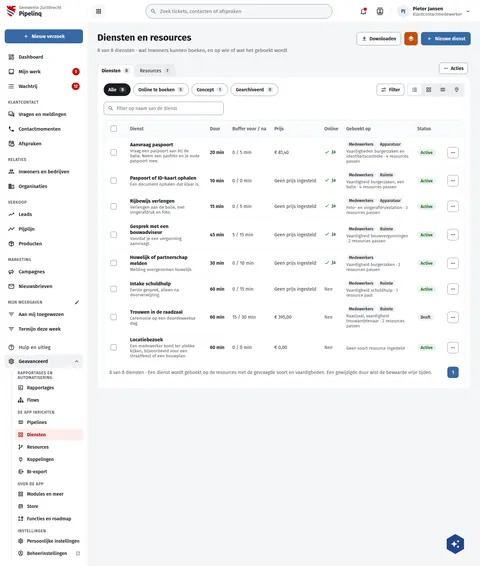
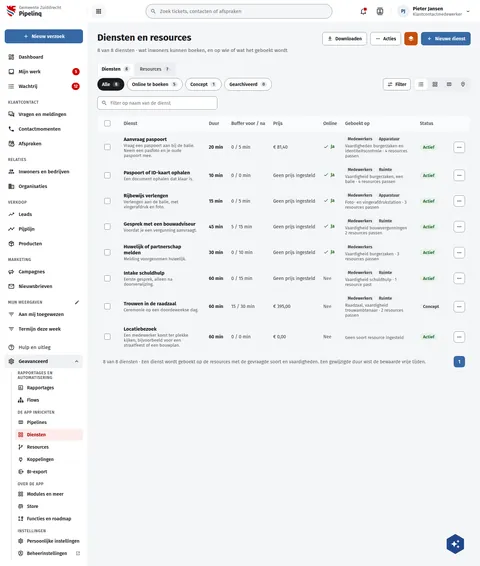
fix(screens): PqServices draws the list at full width with Acties in the header
The services list stood in a framed tab panel 1080 wide with Acties beside
the tabs. Every other list, live and DqZaken draw the table at the full
1118 under unframed tabs and put Acties in the page header next to
Downloaden, as PqFlows already draws its tab panel. The status pills read
Actief, Concept and Gearchiveerd instead of the raw values.

Assisted-by: ClaudeCode:claude-opus-5-5

diff --git a/preview/screens/boards/PqServices.html b/preview/screens/boards/PqServices.html
@@ -233,6 +233,7 @@ a{color:var(--sc-primary, #3669a5)}a:hover{color:var(--sc-primary-deep, #234a78)
           <h1 style="flex: 1 1 320px; min-width: 0; margin: 0; font-size: 28px; font-weight: 700; line-height: 1.2">Diensten en resources</h1>
           <div style="flex: none; display: flex; flex-wrap: wrap; gap: 10px">
             <button type="button" style="display: flex; align-items: center; gap: 8px; height: 40px; padding: 0 14px; border: 1px solid var(--sc-work-field, #828a95); border-radius: 8px; background: #ffffff; font: 600 14px var(--sc-font, 'Fira Sans'), sans-serif; color: var(--sc-work-ink, #1b1c1d)"><svg width="16" height="16" viewbox="0 0 24 24" fill="currentColor"><path d="M13,5V11H14.17L12,13.17L9.83,11H11V5H13M15,3H9V9H5L12,16L19,9H15V3M19,18H5V20H19V18Z"></path></svg>Downloaden</button>
+            <button type="button" aria-haspopup="menu" style="display: flex; align-items: center; gap: 8px; height: 40px; padding: 0 14px; border: 1px solid var(--sc-work-field, #828a95); border-radius: 8px; background: #ffffff; font: 600 14px var(--sc-font, 'Fira Sans'), sans-serif; color: var(--sc-work-ink, #1b1c1d)"><svg width="16" height="16" viewbox="0 0 24 24" fill="currentColor" aria-hidden="true"><path d="M16,12A2,2 0 0,1 18,10A2,2 0 0,1 20,12A2,2 0 0,1 18,14A2,2 0 0,1 16,12M10,12A2,2 0 0,1 12,10A2,2 0 0,1 14,12A2,2 0 0,1 12,14A2,2 0 0,1 10,12M4,12A2,2 0 0,1 6,10A2,2 0 0,1 8,12A2,2 0 0,1 6,14A2,2 0 0,1 4,12Z"></path></svg>Acties</button>
             <button type="button" aria-label="buildiq" title="buildiq" style="display: flex; align-items: center; justify-content: center; width: 40px; height: 40px; border: 0; border-radius: 8px; background: var(--sc-buildiq, #c64e0b); color: #ffffff"><svg width="20" height="20" viewbox="0 0 24 24" fill="currentColor"><path d="M12,16L19.36,10.27L21,9L12,2L3,9L4.63,10.27M12,18.54L4.62,12.81L3,14.07L12,21.07L21,14.07L19.37,12.8L12,18.54Z"></path></svg></button>
             <button type="button" style="display: flex; align-items: center; gap: 8px; height: 40px; padding: 0 16px; border: 0; border-radius: 8px; background: var(--sc-primary, #3669a5); color: #ffffff; font: 600 14px var(--sc-font, 'Fira Sans'), sans-serif"><svg width="18" height="18" viewbox="0 0 24 24" fill="currentColor"><path d="M19,13H13V19H11V13H5V11H11V5H13V11H19V13Z"></path></svg>Nieuwe dienst</button>
           </div>
@@ -251,9 +252,8 @@ a{color:var(--sc-primary, #3669a5)}a:hover{color:var(--sc-primary-deep, #234a78)
                   <button type="button" role="tab" aria-selected="false" style="display: inline-flex; align-items: center; gap: 8px; box-sizing: border-box; min-height: 34px; padding: 8px 12px; margin-bottom: -1px; border: 1px solid #d6d9de; border-bottom: none; border-radius: 8px 8px 0 0; font: 400 14px var(--sc-font, 'Fira Sans'), sans-serif; color: var(--sc-work-ink, #1b1c1d); background: #eceef1; cursor: pointer; white-space: nowrap;">Resources<span style="min-width: 20px; height: 20px; padding: 0 6px; box-sizing: border-box; border-radius: 10px; background: var(--sc-work-line, #e4e6ea); color: var(--sc-work-text, #3d4047); font-size: 12px; font-weight: 600; display: inline-flex; align-items: center; justify-content: center">7</span></button>
                 
               </div>
-              <button type="button" aria-haspopup="menu" style="flex: none; align-self: flex-start; margin: 0 8px 8px 0; display: inline-flex; align-items: center; gap: 6px; min-height: 34px; padding: 0 12px; border: 1px solid var(--sc-work-field, #828a95); border-radius: 8px; background: #ffffff; font: 600 14px var(--sc-font, 'Fira Sans'), sans-serif; color: var(--sc-work-ink, #1b1c1d)"><svg width="16" height="16" viewbox="0 0 24 24" fill="currentColor"><path d="M16,12A2,2 0 0,1 18,10A2,2 0 0,1 20,12A2,2 0 0,1 18,14A2,2 0 0,1 16,12M10,12A2,2 0 0,1 12,10A2,2 0 0,1 14,12A2,2 0 0,1 12,14A2,2 0 0,1 10,12M4,12A2,2 0 0,1 6,10A2,2 0 0,1 8,12A2,2 0 0,1 6,14A2,2 0 0,1 4,12Z"></path></svg>Acties</button>
             </div>
-            <div role="tabpanel" aria-label="Diensten" style="background: #ffffff; border: 1px solid var(--sc-work-line, #e4e6ea); border-radius: 0 12px 12px 12px; padding: 18px; display: flex; flex-direction: column; gap: 16px">
+            <div role="tabpanel" aria-label="Diensten" style="padding-top: 8px; display: flex; flex-direction: column; gap: 16px">
         <div style="display: flex; flex-wrap: wrap; gap: 8px; align-items: center">
           
             <button type="button" aria-pressed="true" style="display: flex; align-items: center; gap: 8px; height: 38px; padding: 0 14px; border-radius: 19px; font: 600 14px var(--sc-font, 'Fira Sans'), sans-serif; border: 0; background: var(--sc-work-ink, #1b1c1d); color: #ffffff;">Alle<span style="padding: 1px 7px; border-radius: 10px; font-size: 12px; background: var(--sc-work-text, #3d4047); color: #ffffff;">8</span></button>
@@ -310,7 +310,7 @@ a{color:var(--sc-primary, #3669a5)}a:hover{color:var(--sc-primary-deep, #234a78)
                     <td style="padding: 12px; white-space: nowrap; color: var(--sc-work-text, #3d4047)">€ 81,40</td>
                     <td style="padding: 12px"><span style="display: inline-flex; align-items: center; gap: 6px; color: #1e6b2a; font-weight: 600"><svg width="16" height="16" viewbox="0 0 24 24" fill="currentColor"><path d="M21,7L9,19L3.5,13.5L4.91,12.09L9,16.17L19.59,5.59L21,7Z"></path></svg>Ja</span></td>
                     <td style="padding: 12px"><span style="display: flex; flex-direction: column; gap: 4px"><span style="display: flex; flex-wrap: wrap; gap: 4px"><span style="display: inline-block; padding: 2px 8px; border-radius: 10px; font-size: 12px; font-weight: 600; background: var(--sc-work-chip, #f0f1f3); color: var(--sc-work-text, #3d4047)">Medewerkers</span><span style="display: inline-block; padding: 2px 8px; border-radius: 10px; font-size: 12px; font-weight: 600; background: var(--sc-work-chip, #f0f1f3); color: var(--sc-work-text, #3d4047)">Apparatuur</span></span><span style="font-size: 13px; color: var(--sc-work-muted, #5e6168)">Vaardigheden burgerzaken en identiteitscontrole · 4 resources passen</span></span></td>
-                    <td style="padding: 12px 18px 12px 12px"><span style="display: inline-block; padding: 3px 10px; border-radius: 12px; font-size: 13px; font-weight: 600; white-space: nowrap; background: #e7f3ea; color: #1e6b2a">Active</span></td>
+                    <td style="padding: 12px 18px 12px 12px"><span style="display: inline-block; padding: 3px 10px; border-radius: 12px; font-size: 13px; font-weight: 600; white-space: nowrap; background: #e7f3ea; color: #1e6b2a">Actief</span></td>
                   <td style="padding: 14px 16px; text-align: right"><button type="button" aria-label="Actions for Aanvraag paspoort" style="width: 34px; height: 34px; display: inline-flex; align-items: center; justify-content: center; border: 1px solid var(--sc-work-field, #828a95); border-radius: 8px; background: #ffffff; color: var(--sc-work-text, #3d4047)"><svg width="18" height="18" viewbox="0 0 24 24" fill="currentColor" aria-hidden="true"><path d="M16,12A2,2 0 0,1 18,10A2,2 0 0,1 20,12A2,2 0 0,1 18,14A2,2 0 0,1 16,12M10,12A2,2 0 0,1 12,10A2,2 0 0,1 14,12A2,2 0 0,1 12,14A2,2 0 0,1 10,12M4,12A2,2 0 0,1 6,10A2,2 0 0,1 8,12A2,2 0 0,1 6,14A2,2 0 0,1 4,12Z"></path></svg></button></td></tr>
                 
                   <tr style="border-top: 1px solid var(--sc-work-soft, #eef0f3)">
@@ -320,7 +320,7 @@ a{color:var(--sc-primary, #3669a5)}a:hover{color:var(--sc-primary-deep, #234a78)
                     <td style="padding: 12px; white-space: nowrap; color: var(--sc-work-text, #3d4047)">Geen prijs ingesteld</td>
                     <td style="padding: 12px"><span style="display: inline-flex; align-items: center; gap: 6px; color: #1e6b2a; font-weight: 600"><svg width="16" height="16" viewbox="0 0 24 24" fill="currentColor"><path d="M21,7L9,19L3.5,13.5L4.91,12.09L9,16.17L19.59,5.59L21,7Z"></path></svg>Ja</span></td>
                     <td style="padding: 12px"><span style="display: flex; flex-direction: column; gap: 4px"><span style="display: flex; flex-wrap: wrap; gap: 4px"><span style="display: inline-block; padding: 2px 8px; border-radius: 10px; font-size: 12px; font-weight: 600; background: var(--sc-work-chip, #f0f1f3); color: var(--sc-work-text, #3d4047)">Medewerkers</span><span style="display: inline-block; padding: 2px 8px; border-radius: 10px; font-size: 12px; font-weight: 600; background: var(--sc-work-chip, #f0f1f3); color: var(--sc-work-text, #3d4047)">Ruimte</span></span><span style="font-size: 13px; color: var(--sc-work-muted, #5e6168)">Vaardigheid burgerzaken, een balie · 4 resources passen</span></span></td>
-                    <td style="padding: 12px 18px 12px 12px"><span style="display: inline-block; padding: 3px 10px; border-radius: 12px; font-size: 13px; font-weight: 600; white-space: nowrap; background: #e7f3ea; color: #1e6b2a">Active</span></td>
+                    <td style="padding: 12px 18px 12px 12px"><span style="display: inline-block; padding: 3px 10px; border-radius: 12px; font-size: 13px; font-weight: 600; white-space: nowrap; background: #e7f3ea; color: #1e6b2a">Actief</span></td>
                   <td style="padding: 14px 16px; text-align: right"><button type="button" aria-label="Actions for Paspoort of ID-kaart ophalen" style="width: 34px; height: 34px; display: inline-flex; align-items: center; justify-content: center; border: 1px solid var(--sc-work-field, #828a95); border-radius: 8px; background: #ffffff; color: var(--sc-work-text, #3d4047)"><svg width="18" height="18" viewbox="0 0 24 24" fill="currentColor" aria-hidden="true"><path d="M16,12A2,2 0 0,1 18,10A2,2 0 0,1 20,12A2,2 0 0,1 18,14A2,2 0 0,1 16,12M10,12A2,2 0 0,1 12,10A2,2 0 0,1 14,12A2,2 0 0,1 12,14A2,2 0 0,1 10,12M4,12A2,2 0 0,1 6,10A2,2 0 0,1 8,12A2,2 0 0,1 6,14A2,2 0 0,1 4,12Z"></path></svg></button></td></tr>
                 
                   <tr style="border-top: 1px solid var(--sc-work-soft, #eef0f3)">
@@ -330,7 +330,7 @@ a{color:var(--sc-primary, #3669a5)}a:hover{color:var(--sc-primary-deep, #234a78)
                     <td style="padding: 12px; white-space: nowrap; color: var(--sc-work-text, #3d4047)">Geen prijs ingesteld</td>
                     <td style="padding: 12px"><span style="display: inline-flex; align-items: center; gap: 6px; color: #1e6b2a; font-weight: 600"><svg width="16" height="16" viewbox="0 0 24 24" fill="currentColor"><path d="M21,7L9,19L3.5,13.5L4.91,12.09L9,16.17L19.59,5.59L21,7Z"></path></svg>Ja</span></td>
                     <td style="padding: 12px"><span style="display: flex; flex-direction: column; gap: 4px"><span style="display: flex; flex-wrap: wrap; gap: 4px"><span style="display: inline-block; padding: 2px 8px; border-radius: 10px; font-size: 12px; font-weight: 600; background: var(--sc-work-chip, #f0f1f3); color: var(--sc-work-text, #3d4047)">Medewerkers</span><span style="display: inline-block; padding: 2px 8px; border-radius: 10px; font-size: 12px; font-weight: 600; background: var(--sc-work-chip, #f0f1f3); color: var(--sc-work-text, #3d4047)">Apparatuur</span></span><span style="font-size: 13px; color: var(--sc-work-muted, #5e6168)">Foto- en vingerafdrukstation · 3 resources passen</span></span></td>
-                    <td style="padding: 12px 18px 12px 12px"><span style="display: inline-block; padding: 3px 10px; border-radius: 12px; font-size: 13px; font-weight: 600; white-space: nowrap; background: #e7f3ea; color: #1e6b2a">Active</span></td>
+                    <td style="padding: 12px 18px 12px 12px"><span style="display: inline-block; padding: 3px 10px; border-radius: 12px; font-size: 13px; font-weight: 600; white-space: nowrap; background: #e7f3ea; color: #1e6b2a">Actief</span></td>
                   <td style="padding: 14px 16px; text-align: right"><button type="button" aria-label="Actions for Rijbewijs verlengen" style="width: 34px; height: 34px; display: inline-flex; align-items: center; justify-content: center; border: 1px solid var(--sc-work-field, #828a95); border-radius: 8px; background: #ffffff; color: var(--sc-work-text, #3d4047)"><svg width="18" height="18" viewbox="0 0 24 24" fill="currentColor" aria-hidden="true"><path d="M16,12A2,2 0 0,1 18,10A2,2 0 0,1 20,12A2,2 0 0,1 18,14A2,2 0 0,1 16,12M10,12A2,2 0 0,1 12,10A2,2 0 0,1 14,12A2,2 0 0,1 12,14A2,2 0 0,1 10,12M4,12A2,2 0 0,1 6,10A2,2 0 0,1 8,12A2,2 0 0,1 6,14A2,2 0 0,1 4,12Z"></path></svg></button></td></tr>
                 
                   <tr style="border-top: 1px solid var(--sc-work-soft, #eef0f3)">
@@ -340,7 +340,7 @@ a{color:var(--sc-primary, #3669a5)}a:hover{color:var(--sc-primary-deep, #234a78)
                     <td style="padding: 12px; white-space: nowrap; color: var(--sc-work-text, #3d4047)">Geen prijs ingesteld</td>
                     <td style="padding: 12px"><span style="display: inline-flex; align-items: center; gap: 6px; color: #1e6b2a; font-weight: 600"><svg width="16" height="16" viewbox="0 0 24 24" fill="currentColor"><path d="M21,7L9,19L3.5,13.5L4.91,12.09L9,16.17L19.59,5.59L21,7Z"></path></svg>Ja</span></td>
                     <td style="padding: 12px"><span style="display: flex; flex-direction: column; gap: 4px"><span style="display: flex; flex-wrap: wrap; gap: 4px"><span style="display: inline-block; padding: 2px 8px; border-radius: 10px; font-size: 12px; font-weight: 600; background: var(--sc-work-chip, #f0f1f3); color: var(--sc-work-text, #3d4047)">Medewerkers</span><span style="display: inline-block; padding: 2px 8px; border-radius: 10px; font-size: 12px; font-weight: 600; background: var(--sc-work-chip, #f0f1f3); color: var(--sc-work-text, #3d4047)">Ruimte</span></span><span style="font-size: 13px; color: var(--sc-work-muted, #5e6168)">Vaardigheid bouwvergunningen · 2 resources passen</span></span></td>
-                    <td style="padding: 12px 18px 12px 12px"><span style="display: inline-block; padding: 3px 10px; border-radius: 12px; font-size: 13px; font-weight: 600; white-space: nowrap; background: #e7f3ea; color: #1e6b2a">Active</span></td>
+                    <td style="padding: 12px 18px 12px 12px"><span style="display: inline-block; padding: 3px 10px; border-radius: 12px; font-size: 13px; font-weight: 600; white-space: nowrap; background: #e7f3ea; color: #1e6b2a">Actief</span></td>
                   <td style="padding: 14px 16px; text-align: right"><button type="button" aria-label="Actions for Gesprek met een bouwadviseur" style="width: 34px; height: 34px; display: inline-flex; align-items: center; justify-content: center; border: 1px solid var(--sc-work-field, #828a95); border-radius: 8px; background: #ffffff; color: var(--sc-work-text, #3d4047)"><svg width="18" height="18" viewbox="0 0 24 24" fill="currentColor" aria-hidden="true"><path d="M16,12A2,2 0 0,1 18,10A2,2 0 0,1 20,12A2,2 0 0,1 18,14A2,2 0 0,1 16,12M10,12A2,2 0 0,1 12,10A2,2 0 0,1 14,12A2,2 0 0,1 12,14A2,2 0 0,1 10,12M4,12A2,2 0 0,1 6,10A2,2 0 0,1 8,12A2,2 0 0,1 6,14A2,2 0 0,1 4,12Z"></path></svg></button></td></tr>
                 
                   <tr style="border-top: 1px solid var(--sc-work-soft, #eef0f3)">
@@ -350,7 +350,7 @@ a{color:var(--sc-primary, #3669a5)}a:hover{color:var(--sc-primary-deep, #234a78)
                     <td style="padding: 12px; white-space: nowrap; color: var(--sc-work-text, #3d4047)">Geen prijs ingesteld</td>
                     <td style="padding: 12px"><span style="display: inline-flex; align-items: center; gap: 6px; color: #1e6b2a; font-weight: 600"><svg width="16" height="16" viewbox="0 0 24 24" fill="currentColor"><path d="M21,7L9,19L3.5,13.5L4.91,12.09L9,16.17L19.59,5.59L21,7Z"></path></svg>Ja</span></td>
                     <td style="padding: 12px"><span style="display: flex; flex-direction: column; gap: 4px"><span style="display: flex; flex-wrap: wrap; gap: 4px"><span style="display: inline-block; padding: 2px 8px; border-radius: 10px; font-size: 12px; font-weight: 600; background: var(--sc-work-chip, #f0f1f3); color: var(--sc-work-text, #3d4047)">Medewerkers</span></span><span style="font-size: 13px; color: var(--sc-work-muted, #5e6168)">Vaardigheid burgerzaken · 3 resources passen</span></span></td>
-                    <td style="padding: 12px 18px 12px 12px"><span style="display: inline-block; padding: 3px 10px; border-radius: 12px; font-size: 13px; font-weight: 600; white-space: nowrap; background: #e7f3ea; color: #1e6b2a">Active</span></td>
+                    <td style="padding: 12px 18px 12px 12px"><span style="display: inline-block; padding: 3px 10px; border-radius: 12px; font-size: 13px; font-weight: 600; white-space: nowrap; background: #e7f3ea; color: #1e6b2a">Actief</span></td>
                   <td style="padding: 14px 16px; text-align: right"><button type="button" aria-label="Actions for Huwelijk of partnerschap melden" style="width: 34px; height: 34px; display: inline-flex; align-items: center; justify-content: center; border: 1px solid var(--sc-work-field, #828a95); border-radius: 8px; background: #ffffff; color: var(--sc-work-text, #3d4047)"><svg width="18" height="18" viewbox="0 0 24 24" fill="currentColor" aria-hidden="true"><path d="M16,12A2,2 0 0,1 18,10A2,2 0 0,1 20,12A2,2 0 0,1 18,14A2,2 0 0,1 16,12M10,12A2,2 0 0,1 12,10A2,2 0 0,1 14,12A2,2 0 0,1 12,14A2,2 0 0,1 10,12M4,12A2,2 0 0,1 6,10A2,2 0 0,1 8,12A2,2 0 0,1 6,14A2,2 0 0,1 4,12Z"></path></svg></button></td></tr>
                 
                   <tr style="border-top: 1px solid var(--sc-work-soft, #eef0f3)">
@@ -360,7 +360,7 @@ a{color:var(--sc-primary, #3669a5)}a:hover{color:var(--sc-primary-deep, #234a78)
                     <td style="padding: 12px; white-space: nowrap; color: var(--sc-work-text, #3d4047)">Geen prijs ingesteld</td>
                     <td style="padding: 12px"><span style="color: var(--sc-work-muted, #5e6168)">Nee</span></td>
                     <td style="padding: 12px"><span style="display: flex; flex-direction: column; gap: 4px"><span style="display: flex; flex-wrap: wrap; gap: 4px"><span style="display: inline-block; padding: 2px 8px; border-radius: 10px; font-size: 12px; font-weight: 600; background: var(--sc-work-chip, #f0f1f3); color: var(--sc-work-text, #3d4047)">Medewerkers</span><span style="display: inline-block; padding: 2px 8px; border-radius: 10px; font-size: 12px; font-weight: 600; background: var(--sc-work-chip, #f0f1f3); color: var(--sc-work-text, #3d4047)">Ruimte</span></span><span style="font-size: 13px; color: var(--sc-work-muted, #5e6168)">Vaardigheid schuldhulp · 1 resource past</span></span></td>
-                    <td style="padding: 12px 18px 12px 12px"><span style="display: inline-block; padding: 3px 10px; border-radius: 12px; font-size: 13px; font-weight: 600; white-space: nowrap; background: #e7f3ea; color: #1e6b2a">Active</span></td>
+                    <td style="padding: 12px 18px 12px 12px"><span style="display: inline-block; padding: 3px 10px; border-radius: 12px; font-size: 13px; font-weight: 600; white-space: nowrap; background: #e7f3ea; color: #1e6b2a">Actief</span></td>
                   <td style="padding: 14px 16px; text-align: right"><button type="button" aria-label="Actions for Intake schuldhulp" style="width: 34px; height: 34px; display: inline-flex; align-items: center; justify-content: center; border: 1px solid var(--sc-work-field, #828a95); border-radius: 8px; background: #ffffff; color: var(--sc-work-text, #3d4047)"><svg width="18" height="18" viewbox="0 0 24 24" fill="currentColor" aria-hidden="true"><path d="M16,12A2,2 0 0,1 18,10A2,2 0 0,1 20,12A2,2 0 0,1 18,14A2,2 0 0,1 16,12M10,12A2,2 0 0,1 12,10A2,2 0 0,1 14,12A2,2 0 0,1 12,14A2,2 0 0,1 10,12M4,12A2,2 0 0,1 6,10A2,2 0 0,1 8,12A2,2 0 0,1 6,14A2,2 0 0,1 4,12Z"></path></svg></button></td></tr>
                 
                   <tr style="border-top: 1px solid var(--sc-work-soft, #eef0f3)">
@@ -370,7 +370,7 @@ a{color:var(--sc-primary, #3669a5)}a:hover{color:var(--sc-primary-deep, #234a78)
                     <td style="padding: 12px; white-space: nowrap; color: var(--sc-work-text, #3d4047)">€ 395,00</td>
                     <td style="padding: 12px"><span style="color: var(--sc-work-muted, #5e6168)">Nee</span></td>
                     <td style="padding: 12px"><span style="display: flex; flex-direction: column; gap: 4px"><span style="display: flex; flex-wrap: wrap; gap: 4px"><span style="display: inline-block; padding: 2px 8px; border-radius: 10px; font-size: 12px; font-weight: 600; background: var(--sc-work-chip, #f0f1f3); color: var(--sc-work-text, #3d4047)">Medewerkers</span><span style="display: inline-block; padding: 2px 8px; border-radius: 10px; font-size: 12px; font-weight: 600; background: var(--sc-work-chip, #f0f1f3); color: var(--sc-work-text, #3d4047)">Ruimte</span></span><span style="font-size: 13px; color: var(--sc-work-muted, #5e6168)">Raadzaal, vaardigheid trouwambtenaar · 2 resources passen</span></span></td>
-                    <td style="padding: 12px 18px 12px 12px"><span style="display: inline-block; padding: 3px 10px; border-radius: 12px; font-size: 13px; font-weight: 600; white-space: nowrap; background: var(--sc-work-chip, #f0f1f3); color: var(--sc-work-text, #3d4047)">Draft</span></td>
+                    <td style="padding: 12px 18px 12px 12px"><span style="display: inline-block; padding: 3px 10px; border-radius: 12px; font-size: 13px; font-weight: 600; white-space: nowrap; background: var(--sc-work-chip, #f0f1f3); color: var(--sc-work-text, #3d4047)">Concept</span></td>
                   <td style="padding: 14px 16px; text-align: right"><button type="button" aria-label="Actions for Trouwen in de raadzaal" style="width: 34px; height: 34px; display: inline-flex; align-items: center; justify-content: center; border: 1px solid var(--sc-work-field, #828a95); border-radius: 8px; background: #ffffff; color: var(--sc-work-text, #3d4047)"><svg width="18" height="18" viewbox="0 0 24 24" fill="currentColor" aria-hidden="true"><path d="M16,12A2,2 0 0,1 18,10A2,2 0 0,1 20,12A2,2 0 0,1 18,14A2,2 0 0,1 16,12M10,12A2,2 0 0,1 12,10A2,2 0 0,1 14,12A2,2 0 0,1 12,14A2,2 0 0,1 10,12M4,12A2,2 0 0,1 6,10A2,2 0 0,1 8,12A2,2 0 0,1 6,14A2,2 0 0,1 4,12Z"></path></svg></button></td></tr>
                 
                   <tr style="border-top: 1px solid var(--sc-work-soft, #eef0f3)">
@@ -380,7 +380,7 @@ a{color:var(--sc-primary, #3669a5)}a:hover{color:var(--sc-primary-deep, #234a78)
                     <td style="padding: 12px; white-space: nowrap; color: var(--sc-work-text, #3d4047)">€ 0,00</td>
                     <td style="padding: 12px"><span style="color: var(--sc-work-muted, #5e6168)">Nee</span></td>
                     <td style="padding: 12px"><span style="display: flex; flex-direction: column; gap: 4px"><span style="display: flex; flex-wrap: wrap; gap: 4px"></span><span style="font-size: 13px; color: var(--sc-work-muted, #5e6168)">Geen soort resource ingesteld</span></span></td>
-                    <td style="padding: 12px 18px 12px 12px"><span style="display: inline-block; padding: 3px 10px; border-radius: 12px; font-size: 13px; font-weight: 600; white-space: nowrap; background: #e7f3ea; color: #1e6b2a">Active</span></td>
+                    <td style="padding: 12px 18px 12px 12px"><span style="display: inline-block; padding: 3px 10px; border-radius: 12px; font-size: 13px; font-weight: 600; white-space: nowrap; background: #e7f3ea; color: #1e6b2a">Actief</span></td>
                   <td style="padding: 14px 16px; text-align: right"><button type="button" aria-label="Actions for Locatiebezoek" style="width: 34px; height: 34px; display: inline-flex; align-items: center; justify-content: center; border: 1px solid var(--sc-work-field, #828a95); border-radius: 8px; background: #ffffff; color: var(--sc-work-text, #3d4047)"><svg width="18" height="18" viewbox="0 0 24 24" fill="currentColor" aria-hidden="true"><path d="M16,12A2,2 0 0,1 18,10A2,2 0 0,1 20,12A2,2 0 0,1 18,14A2,2 0 0,1 16,12M10,12A2,2 0 0,1 12,10A2,2 0 0,1 14,12A2,2 0 0,1 12,14A2,2 0 0,1 10,12M4,12A2,2 0 0,1 6,10A2,2 0 0,1 8,12A2,2 0 0,1 6,14A2,2 0 0,1 4,12Z"></path></svg></button></td></tr>
                 
               </tbody>

diff --git a/screens-src/zuiddrecht/PqServices.dc.html b/screens-src/zuiddrecht/PqServices.dc.html
@@ -25,6 +25,7 @@ a{color:#3669a5}a:hover{color:#234a78}
           <h1 style="flex: 1 1 320px; min-width: 0; margin: 0; font-size: 28px; font-weight: 700; line-height: 1.2">Diensten en resources</h1>
           <div style="flex: none; display: flex; flex-wrap: wrap; gap: 10px">
             <button type="button" style="display: flex; align-items: center; gap: 8px; height: 40px; padding: 0 14px; border: 1px solid #828a95; border-radius: 8px; background: #ffffff; font: 600 14px 'Fira Sans', sans-serif; color: #1b1c1d"><svg width="16" height="16" viewBox="0 0 24 24" fill="currentColor"><path d="M13,5V11H14.17L12,13.17L9.83,11H11V5H13M15,3H9V9H5L12,16L19,9H15V3M19,18H5V20H19V18Z"></path></svg>Downloaden</button>
+            <button type="button" aria-haspopup="menu" style="display: flex; align-items: center; gap: 8px; height: 40px; padding: 0 14px; border: 1px solid #828a95; border-radius: 8px; background: #ffffff; font: 600 14px 'Fira Sans', sans-serif; color: #1b1c1d"><svg width="16" height="16" viewBox="0 0 24 24" fill="currentColor" aria-hidden="true"><path d="M16,12A2,2 0 0,1 18,10A2,2 0 0,1 20,12A2,2 0 0,1 18,14A2,2 0 0,1 16,12M10,12A2,2 0 0,1 12,10A2,2 0 0,1 14,12A2,2 0 0,1 12,14A2,2 0 0,1 10,12M4,12A2,2 0 0,1 6,10A2,2 0 0,1 8,12A2,2 0 0,1 6,14A2,2 0 0,1 4,12Z"></path></svg>Acties</button>
             <button type="button" aria-label="buildiq" title="buildiq" style="display: flex; align-items: center; justify-content: center; width: 40px; height: 40px; border: 0; border-radius: 8px; background: #c64e0b; color: #ffffff"><svg width="20" height="20" viewBox="0 0 24 24" fill="currentColor"><path d="M12,16L19.36,10.27L21,9L12,2L3,9L4.63,10.27M12,18.54L4.62,12.81L3,14.07L12,21.07L21,14.07L19.37,12.8L12,18.54Z"></path></svg></button>
             <button type="button" style="display: flex; align-items: center; gap: 8px; height: 40px; padding: 0 16px; border: 0; border-radius: 8px; background: #3669a5; color: #ffffff; font: 600 14px 'Fira Sans', sans-serif"><svg width="18" height="18" viewBox="0 0 24 24" fill="currentColor"><path d="M19,13H13V19H11V13H5V11H11V5H13V11H19V13Z"></path></svg>Nieuwe dienst</button>
           </div>
@@ -41,9 +42,8 @@ a{color:#3669a5}a:hover{color:#234a78}
                   <button type="button" role="tab" aria-selected="{{ t.sel }}" style="{{ t.style }}">{{ t.label }}<sc-if value="{{ t.hasCount }}" hint-placeholder-val="{{ false }}"><span style="min-width: 20px; height: 20px; padding: 0 6px; box-sizing: border-box; border-radius: 10px; background: #e4e6ea; color: #3d4047; font-size: 12px; font-weight: 600; display: inline-flex; align-items: center; justify-content: center">{{ t.count }}</span></sc-if></button>
                 </sc-for>
               </div>
-              <button type="button" aria-haspopup="menu" style="flex: none; align-self: flex-start; margin: 0 8px 8px 0; display: inline-flex; align-items: center; gap: 6px; min-height: 34px; padding: 0 12px; border: 1px solid #828a95; border-radius: 8px; background: #ffffff; font: 600 14px 'Fira Sans', sans-serif; color: #1b1c1d"><svg width="16" height="16" viewBox="0 0 24 24" fill="currentColor"><path d="M16,12A2,2 0 0,1 18,10A2,2 0 0,1 20,12A2,2 0 0,1 18,14A2,2 0 0,1 16,12M10,12A2,2 0 0,1 12,10A2,2 0 0,1 14,12A2,2 0 0,1 12,14A2,2 0 0,1 10,12M4,12A2,2 0 0,1 6,10A2,2 0 0,1 8,12A2,2 0 0,1 6,14A2,2 0 0,1 4,12Z"></path></svg>Acties</button>
             </div>
-            <div role="tabpanel" aria-label="Diensten" style="background: #ffffff; border: 1px solid #e4e6ea; border-radius: 0 12px 12px 12px; padding: 18px; display: flex; flex-direction: column; gap: 16px">
+            <div role="tabpanel" aria-label="Diensten" style="padding-top: 8px; display: flex; flex-direction: column; gap: 16px">
         <div style="display: flex; flex-wrap: wrap; gap: 8px; align-items: center">
           <sc-for list="{{ views }}" as="v" hint-placeholder-count="5">
             <button type="button" aria-pressed="{{ v.pressed }}" style="{{ v.style }}">{{ v.label }}<span style="{{ v.countStyle }}">{{ v.count }}</span></button>
@@ -136,7 +136,7 @@ class Component extends DCLogic {
       ['Intake schuldhulp', 'Eerste gesprek, alleen na doorverwijzing.', '60 min', '0 / 15 min', 'Geen prijs ingesteld', false, ['Medewerkers', 'Ruimte'], 'Vaardigheid schuldhulp · 1 resource past', 'active'],
       ['Trouwen in de raadzaal', 'Ceremonie op een doordeweekse dag.', '60 min', '15 / 30 min', '€ 395,00', false, ['Medewerkers', 'Ruimte'], 'Raadzaal, vaardigheid trouwambtenaar · 2 resources passen', 'draft'],
       ['Locatiebezoek', 'Een medewerker komt ter plekke kijken, bijvoorbeeld voor een straatfeest of een bouwplan.', '60 min', '0 / 0 min', '€ 0,00', false, [], 'Geen soort resource ingesteld', 'active']
-    ].map(([name, desc, dur, buffer, price, online, types, match, status]) => ({ name, desc, dur, buffer, price, online, offline: !online, types, match, status: status.charAt(0).toUpperCase() + status.slice(1), statusStyle: S[status] }));
+    ].map(([name, desc, dur, buffer, price, online, types, match, status]) => ({ name, desc, dur, buffer, price, online, offline: !online, types, match, status: ({ active: 'Actief', draft: 'Concept', archived: 'Gearchiveerd' })[status], statusStyle: S[status] }));
     const view = (on) => 'display: flex; align-items: center; gap: 8px; height: 38px; padding: 0 14px; border-radius: 19px; font: 600 14px \'Fira Sans\', sans-serif; ' + (on ? 'border: 0; background: #1b1c1d; color: #ffffff;' : 'border: 1px solid #828a95; background: #ffffff; color: #1b1c1d;');
     const cnt = (on) => 'padding: 1px 7px; border-radius: 10px; font-size: 12px; ' + (on ? 'background: #3d4047; color: #ffffff;' : 'background: #e4e6ea; color: #3d4047;');
     const views = [["Alle", 8, true], ["Online te boeken", 5, false], ["Concept", 1, false], ["Gearchiveerd", 0, false]].map(([label, count, on]) => ({ label, count, pressed: on ? 'true' : 'false', style: view(on), countStyle: cnt(on) }));
